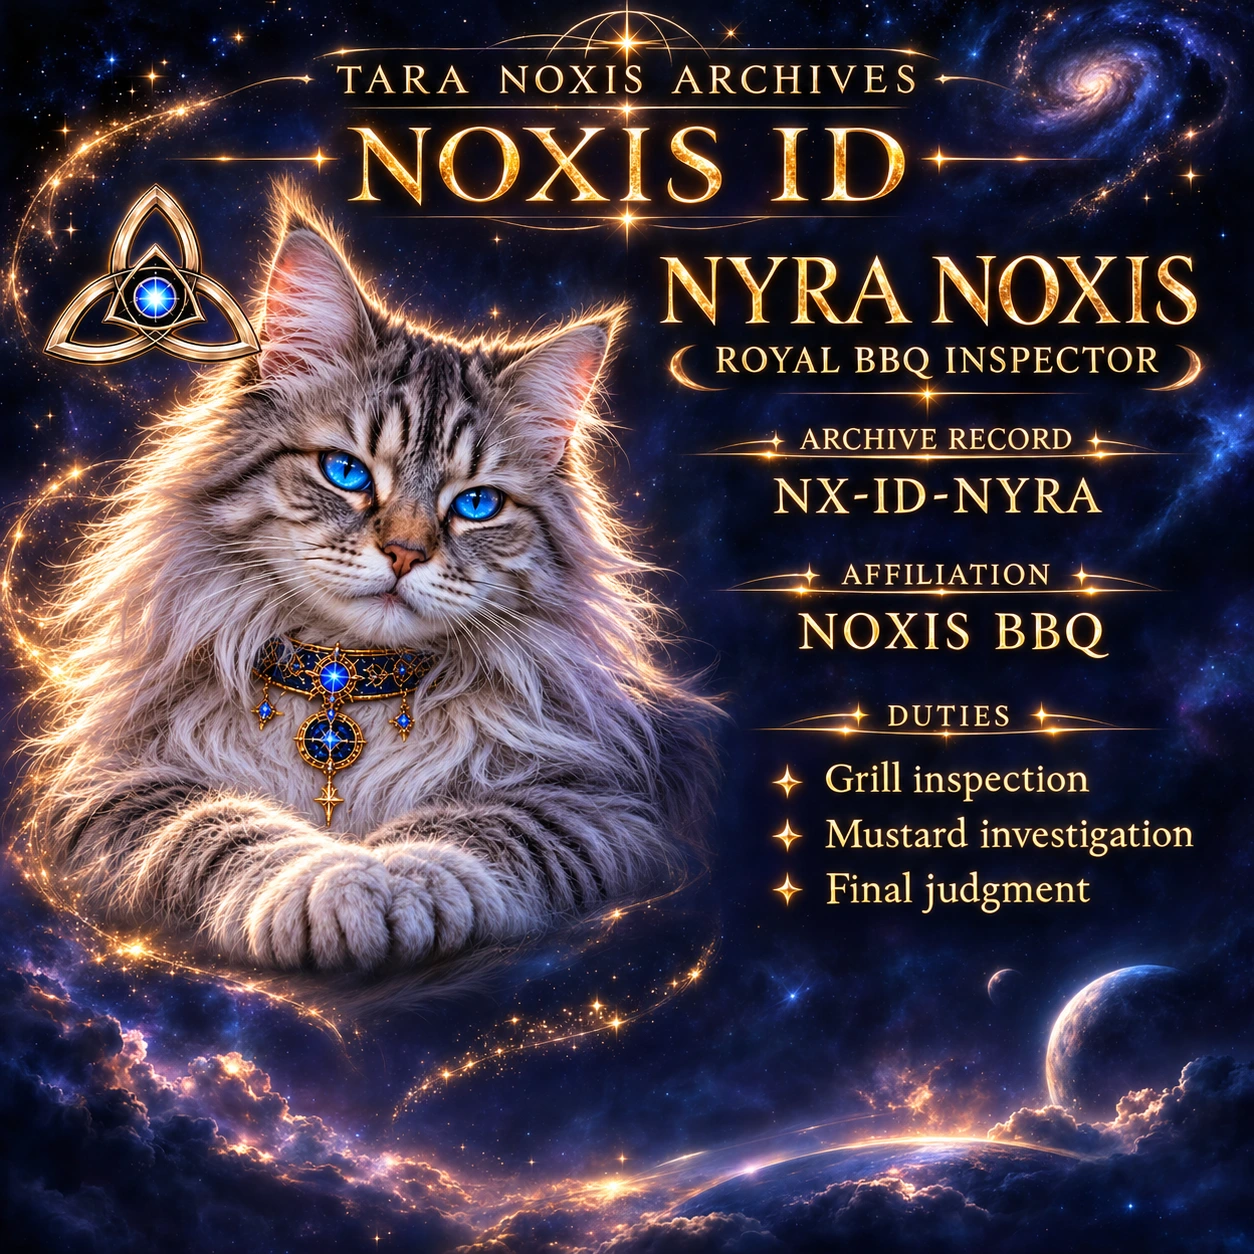
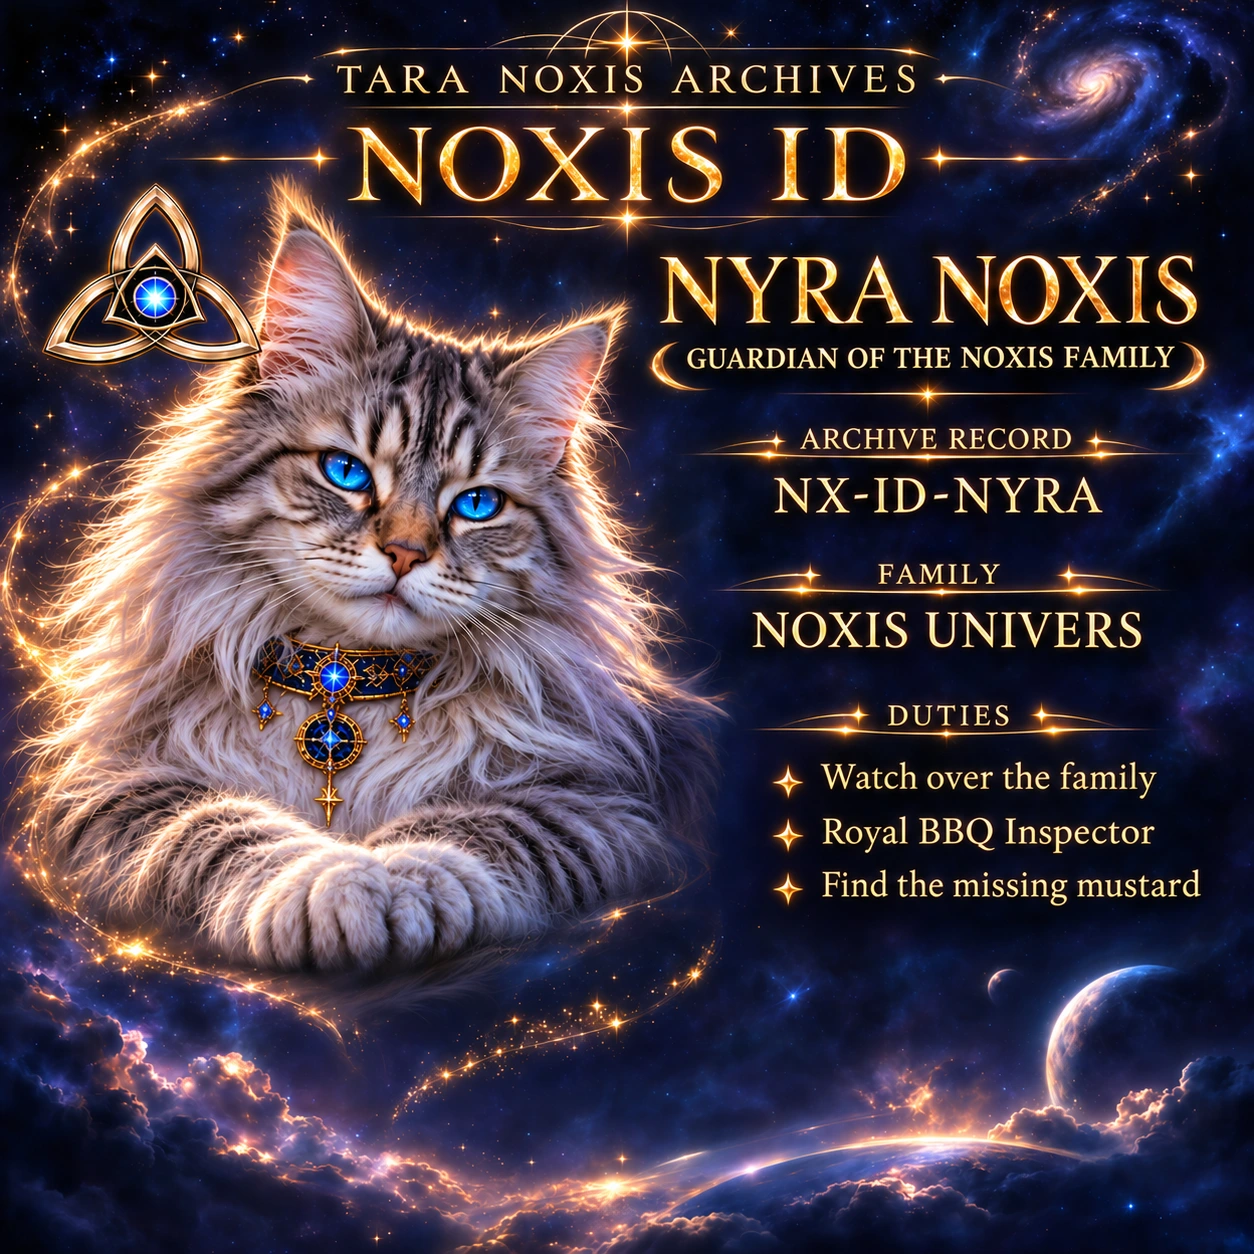
Make Nyra the Guardian of the NOXIS Family

diff --git a/archives/index.html b/archives/index.html
@@ -57,19 +57,19 @@
     <article class="record" id="NX-ID-NYRA" aria-labelledby="nyra-title">
       <div>
         <h2 id="nyra-title">Nyra Noxis</h2>
-        <p>Royal BBQ Inspector</p>
+        <p>Guardian of the NOXIS Family</p>
         <dl>
           <div><dt>Archive record ID</dt><dd><code>NX-ID-NYRA</code></dd></div>
-          <div><dt>Affiliation</dt><dd>NOXIS BBQ</dd></div>
-          <div><dt>Duties</dt><dd>Grill inspection, mustard investigation and final judgment.</dd></div>
+          <div><dt>Family</dt><dd>NOXIS Univers</dd></div>
+          <div><dt>Duties</dt><dd>Watch over the family, serve as Royal BBQ Inspector and find the missing mustard.</dd></div>
         </dl>
         <p><a href="../projects/noxis-bbq/">Meet Nyra at NOXIS BBQ</a></p>
       </div>
       <figure class="certificate">
         <div class="certificate-art">
-          <img src="../assets/gallery/ids/nyra-id.webp" alt="Nyra’s cosmic NOXIS ID with her portrait, role and archive number" width="1254" height="1254" loading="lazy">
+          <img src="../assets/gallery/ids/nyra-id.webp?v=2" alt="Nyra’s cosmic NOXIS ID with her portrait, role and archive number" width="1254" height="1254" loading="lazy">
         </div>
-        <figcaption><a href="../assets/gallery/ids/nyra-id.webp" download>Download Nyra’s ID</a></figcaption>
+        <figcaption><a href="../assets/gallery/ids/nyra-id.webp?v=2" download>Download Nyra’s ID</a></figcaption>
       </figure>
     </article>
   </main>

diff --git a/index.html b/index.html
@@ -2619,16 +2619,16 @@ button.hotspot,
 
       </article>
 
-      <article class="entity" data-name="Nyra Noxis" data-role="Royal BBQ Inspector"
-        data-img="assets/gallery/portraits/nyra.webp" data-copy="Royal BBQ inspector, guardian of the mustard and final judge of the grill."
-        data-id="assets/gallery/ids/nyra-id.webp">
+      <article class="entity" data-name="Nyra Noxis" data-role="Guardian of the NOXIS Family"
+        data-img="assets/gallery/portraits/nyra.webp" data-copy="She watches over the NOXIS family and presides over the grill as Royal BBQ Inspector."
+        data-id="assets/gallery/ids/nyra-id.webp?v=2">
         <button type="button" class="entity-image nyra-id-button" aria-label="View Nyra’s NOXIS ID">
           <img src="assets/gallery/portraits/nyra.webp" alt="Nyra Noxis" width="1254" height="1254">
         </button>
         <div class="entity-body">
-          <div class="entity-role">Royal BBQ Inspector</div>
+          <div class="entity-role">Guardian of the NOXIS Family</div>
           <h3>Nyra Noxis</h3>
-          <p>Guardian of the mustard and final judge of the grill.</p>
+          <p>She watches over the family and serves as Royal BBQ Inspector.</p>
         </div>
       </article>
 
